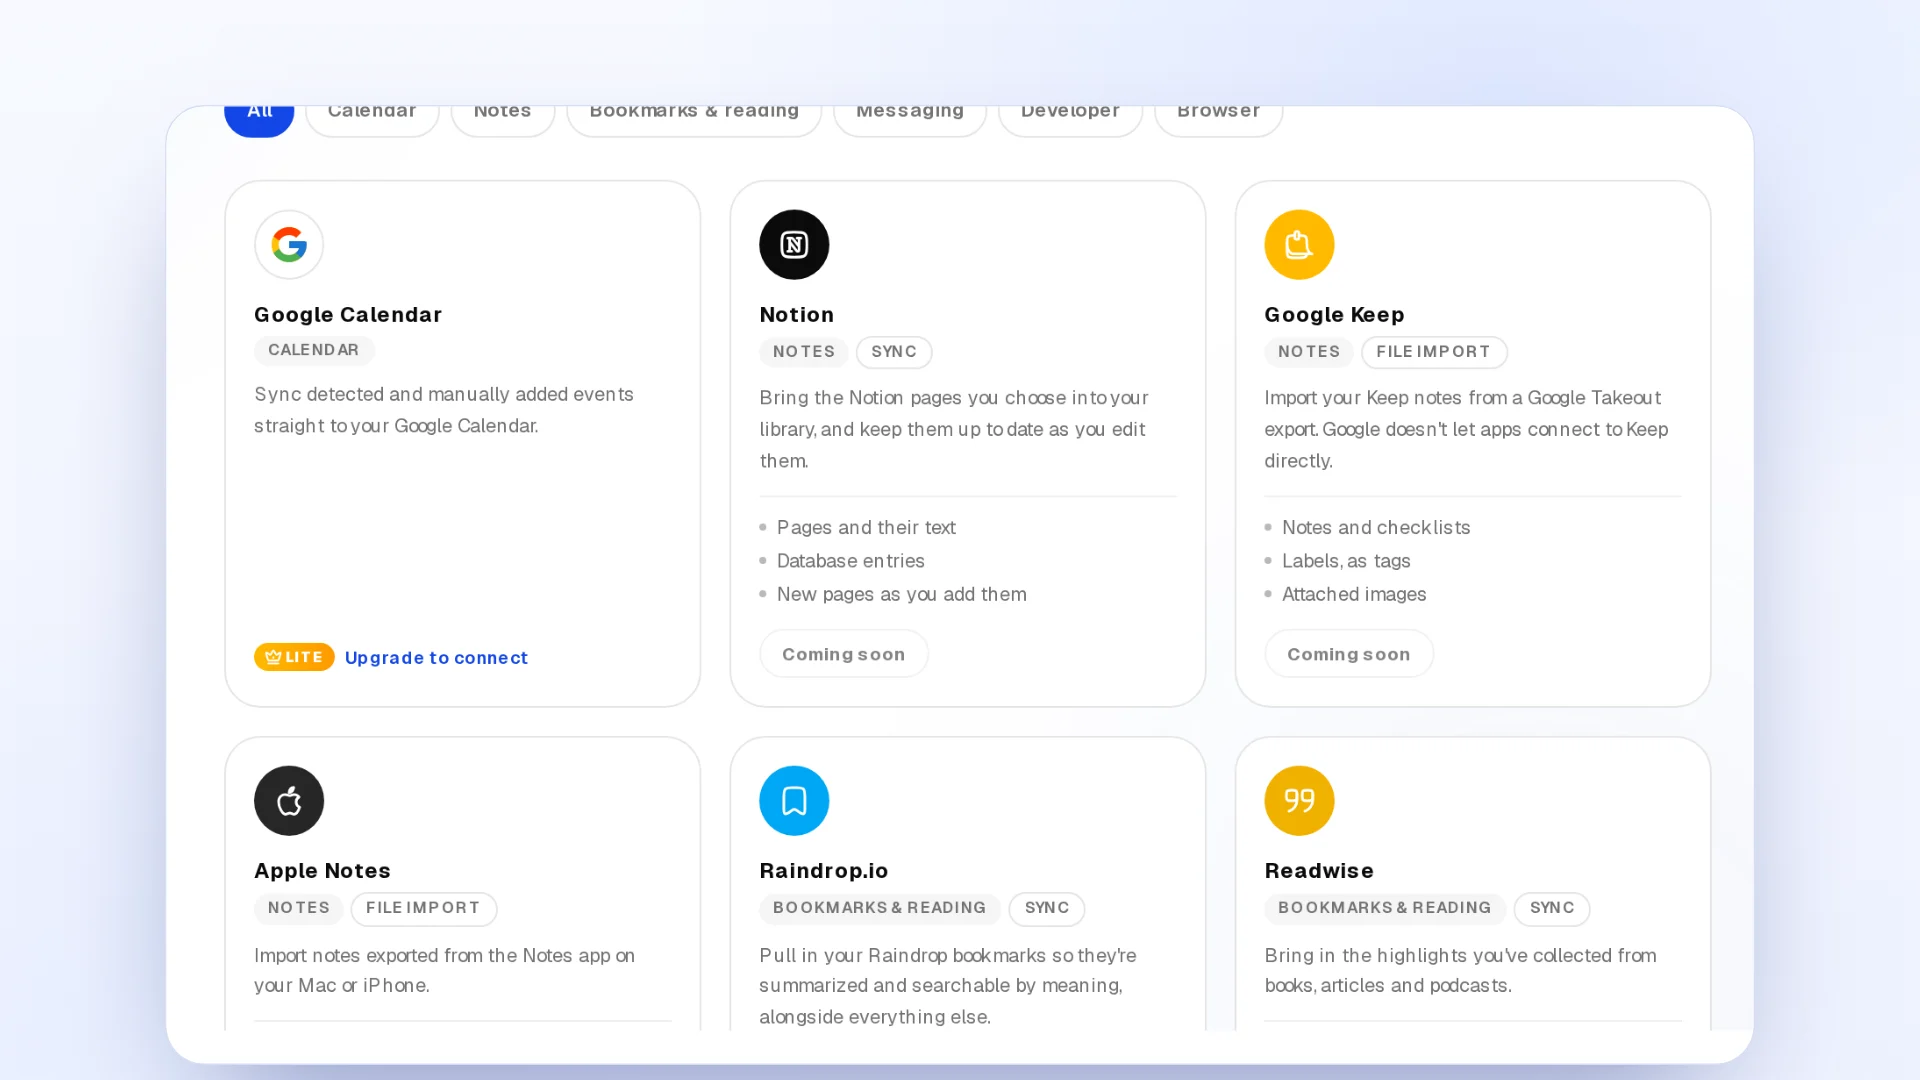
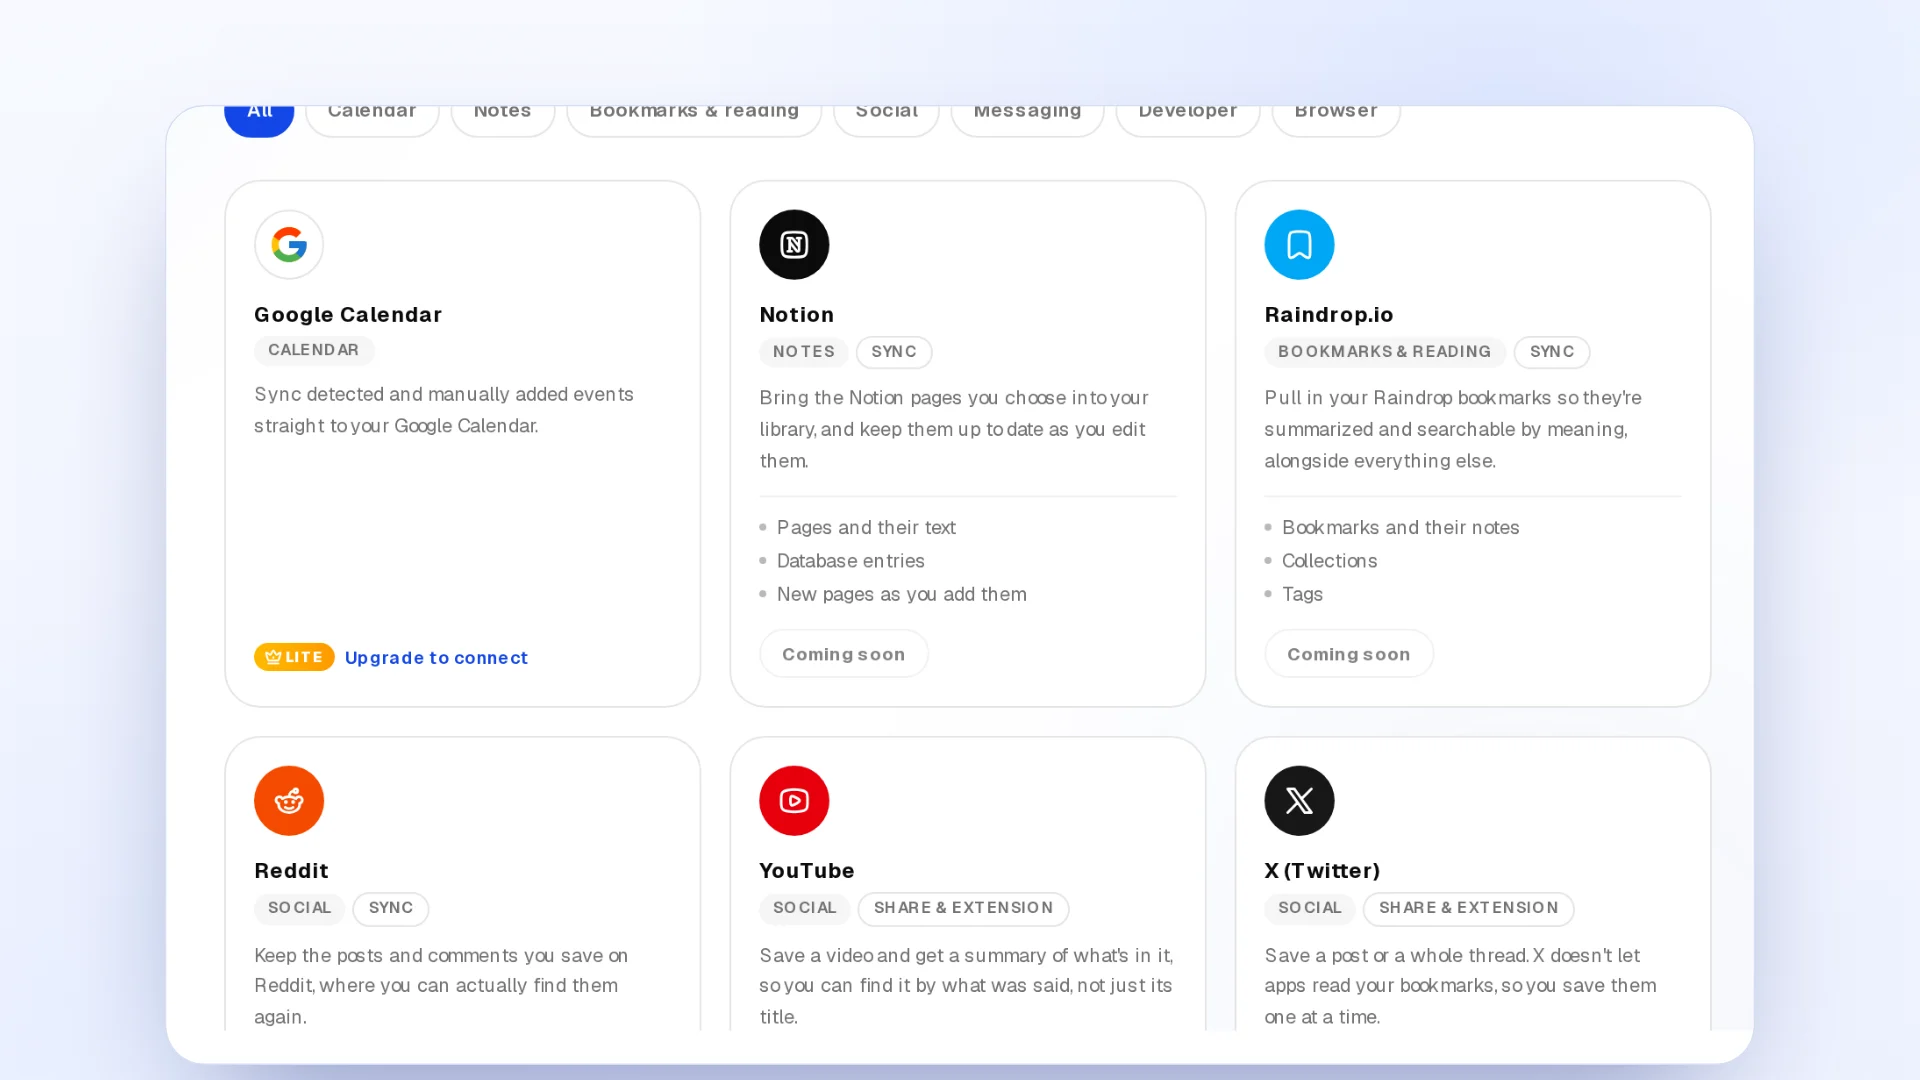
Trim the planned integrations
Removes Bluesky, Pinterest, TikTok, Readwise, Google Keep and Apple Notes
from the Integrations page, which leaves Google Calendar and twelve planned
connectors. With the two file-import connectors gone, 'File import' is no
longer a way to connect.

The 'coming soon' image for the What's new popup showed three of the removed
cards, so it's regenerated from the page as it is now.

Claude-Session: https://claude.ai/code/session_01AgpmTuGqBhmGbigqSjCZgM

diff --git a/client/app/(platfrom)/app/integrations/page.tsx b/client/app/(platfrom)/app/integrations/page.tsx
@@ -4,8 +4,6 @@ import React from "react";
 import Link from "next/link";
 import { HugeiconsIcon } from "@hugeicons/react";
 import {
-  AppleIcon,
-  BlueskyIcon,
   Bookmark02Icon,
   ChromeIcon,
   CheckmarkCircle02Icon as CheckCircle,
@@ -14,14 +12,10 @@ import {
   Linkedin01Icon,
   NewTwitterIcon,
   Notion01Icon,
-  PinterestIcon,
-  QuoteDownIcon,
   RedditIcon,
   Search01Icon as SearchIcon,
   SlackIcon,
-  StickyNote02Icon,
   TelegramIcon,
-  TiktokIcon,
   WhatsappIcon,
   YoutubeIcon,
 } from "@hugeicons/core-free-icons";
@@ -57,8 +51,7 @@ const CATEGORIES: Category[] = ["Calendar", "Notes", "Bookmarks & reading", "Soc
  * available yet: none of them connects to anything.
  *
  * `how` is what the platform itself allows: a live sync where it offers an
- * API, a one-time file import where it doesn't (Google Keep and Apple Notes
- * give other apps no access to personal accounts). Most social networks
+ * API. Most social networks
  * don't let an app read what you've saved there, so those are captured one
  * post at a time, from the share menu or the browser extension: the cards
  * say so, and don't promise a sync that the platform wouldn't allow.
@@ -67,7 +60,7 @@ interface PlannedIntegration {
   key: string;
   title: string;
   category: Category;
-  how: "Sync" | "File import" | "Send to bot" | "Extension" | "Share & extension";
+  how: "Sync" | "Send to bot" | "Extension" | "Share & extension";
   description: string;
   brings: string[];
   icon: IconSvgElement;
@@ -86,26 +79,6 @@ const PLANNED: PlannedIntegration[] = [
     iconClassName: "bg-foreground text-background",
   },
   {
-    key: "google-keep",
-    title: "Google Keep",
-    category: "Notes",
-    how: "File import",
-    description: "Import your Keep notes from a Google Takeout export. Google doesn't let apps connect to Keep directly.",
-    brings: ["Notes and checklists", "Labels, as tags", "Attached images"],
-    icon: StickyNote02Icon,
-    iconClassName: "bg-amber-400 text-white",
-  },
-  {
-    key: "apple-notes",
-    title: "Apple Notes",
-    category: "Notes",
-    how: "File import",
-    description: "Import notes exported from the Notes app on your Mac or iPhone.",
-    brings: ["Note text", "Folders, as collections", "Attached images"],
-    icon: AppleIcon,
-    iconClassName: "bg-neutral-800 text-white",
-  },
-  {
     key: "raindrop",
     title: "Raindrop.io",
     category: "Bookmarks & reading",
@@ -114,16 +87,6 @@ const PLANNED: PlannedIntegration[] = [
     brings: ["Bookmarks and their notes", "Collections", "Tags"],
     icon: Bookmark02Icon,
     iconClassName: "bg-sky-500 text-white",
-  },
-  {
-    key: "readwise",
-    title: "Readwise",
-    category: "Bookmarks & reading",
-    how: "Sync",
-    description: "Bring in the highlights you've collected from books, articles and podcasts.",
-    brings: ["Highlights and your notes on them", "The source they came from", "New highlights as they arrive"],
-    icon: QuoteDownIcon,
-    iconClassName: "bg-yellow-500 text-white",
   },
   {
     key: "reddit",
@@ -174,36 +137,6 @@ const PLANNED: PlannedIntegration[] = [
     brings: ["Posts and their author", "Articles, with their full text", "Job listings you want to keep"],
     icon: Linkedin01Icon,
     iconClassName: "bg-sky-700 text-white",
-  },
-  {
-    key: "tiktok",
-    title: "TikTok",
-    category: "Social",
-    how: "Share & extension",
-    description: "Save a video with its caption, so the recipe or tip in it is searchable later.",
-    brings: ["The video link and caption", "The creator", "Shared from the TikTok app"],
-    icon: TiktokIcon,
-    iconClassName: "bg-neutral-900 text-white",
-  },
-  {
-    key: "pinterest",
-    title: "Pinterest",
-    category: "Social",
-    how: "Sync",
-    description: "Bring in your boards, so your pins sit beside everything else you've saved.",
-    brings: ["Pins and their images", "Boards, as collections", "New pins as you add them"],
-    icon: PinterestIcon,
-    iconClassName: "bg-red-700 text-white",
-  },
-  {
-    key: "bluesky",
-    title: "Bluesky",
-    category: "Social",
-    how: "Sync",
-    description: "Keep the posts you like on Bluesky, with their text and links.",
-    brings: ["Posts you've liked", "Threads, in order", "Links shared in them"],
-    icon: BlueskyIcon,
-    iconClassName: "bg-sky-500 text-white",
   },
   {
     key: "telegram",
